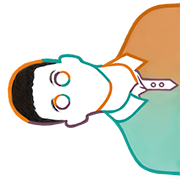
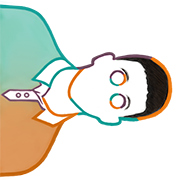
animatino img switch and flip

diff --git a/animation/animation.js b/animation/animation.js
@@ -3,13 +3,15 @@
 //---TEXT & IMAGES---//
 
 //homepage and about images
-var profile;
+var profile, real_profile;
 
 //-----PRELOAD-----// see p5js documentation for preload() function
 function preload() {
 
   //preload images
   profile = loadImage('profile.png');
+  real_profile = loadImage('real_profile.png');
+
 }
 
 //-----SETUP-----// see p5js documentation for setup() function
@@ -38,36 +40,70 @@ var home = {}; //home dictionary
 page_info["home"] = home; //asign page dict to page info dict
 home["image_slidein"] = image_slidein;
 home["image_static"] = image_static;
+home["image_slideout"] = image_slideout;
 home["particle_fadein"] = particle_fadein;
 home["particle_static"] = particle_static;
+home["particle_fadeout"] = particle_static;
+profile_img = 0; // state for wether to use fake (0) or real (1) profile pic
 
 function image_slidein() {
 
   //image slide-in
   tint(255, 255);
-  image(profile, (windowWidth - 180)+((1-sin(animation_timer))*180), (windowHeight/2) - 86, 180, 180);
+  if (profile_img == 0) {
+    image(profile, -180 + (sin(animation_timer)*180), (windowHeight/2) - 86, 180, 180);
+  } else {
+    image(real_profile, -180 + (sin(animation_timer)*180), (windowHeight/2) - 86, 180, 180);
+  }
+  
 
-  //eyes
-  noStroke();
-  fill(60);
-  ellipse((windowWidth)-120 + (mouseX/windowWidth)*5 + ((1-sin(animation_timer))*180), (windowHeight/2) - 9 + (mouseY/windowHeight)*3, 8, 8);
-  ellipse((windowWidth)-120 + (mouseX/windowWidth)*5 + ((1-sin(animation_timer))*180), (windowHeight/2) + 14 + (mouseY/windowHeight)*3, 8, 8);
+  //eyes (only if sketch)
+  if (profile_img == 0) {
+    noStroke();
+    fill(60);
+    ellipse(-65 + (mouseX/windowWidth)*5 + ((sin(animation_timer))*180), (windowHeight/2) - 9 + (mouseY/windowHeight)*3, 8, 8);
+    ellipse(-65 + (mouseX/windowWidth)*5 + ((sin(animation_timer))*180), (windowHeight/2) + 14 + (mouseY/windowHeight)*3, 8, 8);
 
-  // //white ellipse to cover up image right of center line
-  // noStroke();
-  // fill(255);
-  // rect(windowWidth, (windowHeight/2)-100, 200, 200);
+  }
 
 }
 function image_static() {
 
-  image(profile, (windowWidth) - 180, (windowHeight/2) - 86, 180, 180);
+  if (profile_img == 0) {
+    image(profile, 0, (windowHeight/2) - 86, 180, 180);
+  } else {
+    image(real_profile, 0, (windowHeight/2) - 86, 180, 180);
+  }
+  
+  //eyes (only if sketch)
+  if (profile_img == 0) {
+    noStroke();
+    fill(60);
+    ellipse(115 + (mouseX/windowWidth)*5, (windowHeight/2) - 9 + (mouseY/windowHeight)*3, 8, 8);
+    ellipse(115 + (mouseX/windowWidth)*5, (windowHeight/2) + 14 + (mouseY/windowHeight)*3, 8, 8);
+  }
+  
+}
+function image_slideout() {
 
-  //eyes
-  noStroke();
-  fill(60);
-  ellipse((windowWidth)-120 + (mouseX/windowWidth)*5, (windowHeight/2) - 9 + (mouseY/windowHeight)*3, 8, 8);
-  ellipse((windowWidth)-120 + (mouseX/windowWidth)*5, (windowHeight/2) + 14 + (mouseY/windowHeight)*3, 8, 8);
+  //image slide-out
+  tint(255, 255);
+  if (profile_img == 0) {
+    image(profile, -(sin(animation_timer)*180), (windowHeight/2) - 86, 180, 180);
+  } else {
+    image(real_profile, -(sin(animation_timer)*180), (windowHeight/2) - 86, 180, 180);
+  }
+  
+
+  //eyes (only if sketch)
+  if (profile_img == 0) {
+    noStroke();
+    fill(60);
+    ellipse(115 + (mouseX/windowWidth)*5 - (sin(animation_timer)*180), (windowHeight/2) - 9 + (mouseY/windowHeight)*3, 8, 8);
+    ellipse(115 + (mouseX/windowWidth)*5 - (sin(animation_timer)*180), (windowHeight/2) + 14 + (mouseY/windowHeight)*3, 8, 8);
+
+  }
+
 }
 
 function particle_fadein() {
@@ -75,13 +111,13 @@ function particle_fadein() {
   for (var i = 0; i < particleNumber; i++) {
     //updates
     perlinTimers[i] += (0.0001*i)+(0.001);
-    particleXpos[i] = particles[i].xposupdate() + 700*(noise(perlinTimers[i]) - 0.5); //multiplicative parameter changes particle spread
-    particleYpos[i] = particles[i].yposupdate() + 700*(noise(perlinTimers[i]+1) - 0.5); //multiplicative parameter changes particle spread
+    particleXpos[i] = particles[i].xposupdate() + (windowWidth)*(noise(perlinTimers[i]) - 0.5); //multiplicative parameter changes particle spread
+    particleYpos[i] = particles[i].yposupdate() + (windowHeight)*(noise(perlinTimers[i]+1) - 0.5); //multiplicative parameter changes particle spread
 
     //line to middle
     strokeWeight(1.4);
     stroke(140, 150*(sin(animation_timer)));
-    line(particleXpos[i], particleYpos[i], (windowWidth)-100, windowHeight/2);
+    line(particleXpos[i], particleYpos[i], 100, windowHeight/2);
     // // line connecting particles with other particles
     // if (i<particleNumber-2) {
     //   line(particleXpos[i], particleYpos[i], particleXpos[i+1], particleYpos[i+1]);
@@ -107,13 +143,13 @@ function particle_static() {
   for (var i = 0; i < particleNumber; i++) {
     //updates
     perlinTimers[i] += (0.0001*i)+(0.001);
-    particleXpos[i] = particles[i].xposupdate() + 700*(noise(perlinTimers[i]) - 0.5); //multiplicative parameter changes particle spread
-    particleYpos[i] = particles[i].yposupdate() + 700*(noise(perlinTimers[i]+1) - 0.5); //multiplicative parameter changes particle spread
+    particleXpos[i] = particles[i].xposupdate() + (windowWidth)*(noise(perlinTimers[i]) - 0.5); //multiplicative parameter changes particle spread
+    particleYpos[i] = particles[i].yposupdate() + (windowHeight)*(noise(perlinTimers[i]+1) - 0.5); //multiplicative parameter changes particle spread
 
     //line to middle
     strokeWeight(1.4);
     stroke(140, 150);
-    line(particleXpos[i], particleYpos[i], (windowWidth)-100, windowHeight/2);
+    line(particleXpos[i], particleYpos[i], 100, windowHeight/2);
     // // line connecting particles with other particles
     // if (i<particleNumber-2) {
     //   line(particleXpos[i], particleYpos[i], particleXpos[i+1], particleYpos[i+1]);
@@ -134,6 +170,39 @@ function particle_static() {
     ellipse(particleXpos[i], particleYpos[i], 17, 17);
   }
 }
+function particle_fadeout() {
+
+  for (var i = 0; i < particleNumber; i++) {
+    //updates
+    perlinTimers[i] += (0.0001*i)+(0.001);
+    particleXpos[i] = particles[i].xposupdate() + (windowWidth)*(noise(perlinTimers[i]) - 0.5); //multiplicative parameter changes particle spread
+    particleYpos[i] = particles[i].yposupdate() + (windowHeight)*(noise(perlinTimers[i]+1) - 0.5); //multiplicative parameter changes particle spread
+
+    //line to middle
+    strokeWeight(1.4);
+    stroke(140, 150*(1-sin(animation_timer)));
+    line(particleXpos[i], particleYpos[i], 100, windowHeight/2);
+    // // line connecting particles with other particles
+    // if (i<particleNumber-2) {
+    //   line(particleXpos[i], particleYpos[i], particleXpos[i+1], particleYpos[i+1]);
+    // }
+
+    //varying fill colors based on particle index
+    if (i%3==0) {
+      fill(179, 157, 219);
+    } else if (i%2==0) {
+      fill(255, 151, 66);
+    } else {
+      fill(128, 203, 196);
+    }
+    
+    //particles
+    strokeWeight(2);
+    stroke(60, 255*(1-sin(animation_timer)));
+    ellipse(particleXpos[i], particleYpos[i], 17-17*(sin(animation_timer)), 17-17*sin(animation_timer));
+  }
+}
+
 
 //---general functions---//
 
@@ -149,17 +218,17 @@ function state_agnostic() {
   textSize(12);
   // text('alpha version', 5, 15)
 
-  //---framerate---//
-  if (frameCount%30==0) {
-    fps = frameRate();
-  }
+  // //---framerate---//
+  // if (frameCount%30==0) {
+  //   fps = frameRate();
+  // }
   //text("FPS: " + fps.toFixed(2), 5, 15);
 }
 function Particles() { //particle class
 
   //initial spread of particles
-  this.x = random((windowWidth)-525, ((windowWidth)+325));
-  this.y = random((windowHeight/2)-525, (windowHeight/2)+525);
+  this.x = random(0, windowWidth);
+  this.y = random(0, windowHeight);
   this.easing = 0.01;
 
   this.xposupdate = function() {
@@ -177,28 +246,14 @@ function Particles() { //particle class
   }
 }
 
-function line_fadein() {
-  
-  stroke(170, sin(animation_timer)*255);
-  strokeWeight(sin(animation_timer)*2);
-  line(windowWidth-1, windowHeight/2 - 106, windowWidth-1, windowHeight/2 + 111);
-
-}
 function line_static() {
 
   stroke(170);
-  strokeWeight(2);
-  line(windowWidth-1, windowHeight/2 - 106, windowWidth-1, windowHeight/2 + 111);
+  strokeWeight(1);
+  line(0, windowHeight/2 - 106, 0, windowHeight/2 + 111);
 
 }
-// function line_fadeout() {
-  
-//   stroke(70);
-//   strokeWeight(2);
-//   line(windowWidth/2, windowHeight/2 - 106 - (3*windowHeight/10 - 133)*sin(animation_timer), windowWidth/2, windowHeight/2 + 111 - (3*windowHeight/10 + 84)*(sin(animation_timer)));
-//   //line(windowWidth/2, windowHeight/2 - 108 + 106*sin(animation_timer), windowWidth/2, windowHeight/2 + 111 - 113*sin(animation_timer));
 
-// }
 
 //---------------------DRAW----------------------//
 var STATE = 0; //highest level state, 4 states indicated in draw()
@@ -229,7 +284,7 @@ function draw() {
       current_page = "home";
       if (animation_timer <= HALF_PI) {
         image_slidein();
-        line_fadein();
+        line_static();
         animation_timer += (HALF_PI/60);
       } else {
         animation_substate = 2;
@@ -253,6 +308,8 @@ function draw() {
 
   }
 
+  line_static();
+
   //STATE 1: HOMEPAGE STATIC
   if (STATE == 1) {
 
@@ -260,5 +317,40 @@ function draw() {
     image_static();
     line_static();
 
+  }
+
+  if (STATE == 2) {
+
+    //substate 0: particle fade-out
+    if (animation_substate == 0) {
+      if (animation_timer <= HALF_PI) {
+        particle_fadeout();
+        image_static();
+        noStroke();
+        animation_timer += (HALF_PI/60);
+      } else {
+        animation_substate = 1;
+        animation_timer = 0;
+      }
+    }
+
+    //substate 1: image slideout
+    if (animation_substate == 1) {
+      if (animation_timer <= HALF_PI) {
+        image_slideout();
+        animation_timer += (HALF_PI/60);
+      } else {
+        animation_substate = 1;
+        STATE = 0;
+        profile_img = (profile_img + 1)%2;
+        animation_timer = 0;
+      }
+    }
+  }
+}
+
+function mousePressed() {
+  if (STATE == 1) { //only if static
+    STATE = 2;
   }
 }

diff --git a/index.html b/index.html
@@ -28,7 +28,7 @@
 							<!-- Home -->
 							<section id="banner" style="margin-top: 1.45em">
 
-								<div class="content">
+								<div class="content", style="margin-right: 1em;">
 									<h2>Home</i></h2>
 									<p><strong>Hi!</strong><br>
 									I'm working on some cool stuff in music, computer science, mathematics, and engineering. You can find some of them on this website!</p>
@@ -53,7 +53,7 @@
 									<img src="images/portrait.jpg" alt="Christos Plachouras" />
 								</span> -->
 
-								<span class="image left"><img src="images/portrait.jpg"></span>
+								<!-- <span class="image left"><img src="images/portrait.jpg"></span> -->
 
 								<div class="content">
 									<h2>About</h2>
@@ -110,7 +110,7 @@
 									<p id="boxed-text"><strong>Utilizing Hierarchical Structure for Audio-Based Music Similarity</strong><br>
 									Christos Plachouras<br>
 									Late-Breaking Demo, International Society of Music Information Retrieval (ISMIR) Conference 2021 (virtual) <br>
-									Paper, Video, Poster, <a href="" target="_blank">Code</a></p>	
+									Paper, Video, Poster, <a href="https://github.com/chrispla/align_and_compare" target="_blank">Code</a></p>	
 								</div>
 								<div class="boxed odd">
 									<span class="image entry"><img src="images/timbre.png"></span>

diff --git a/assets/css/main.css b/assets/css/main.css
@@ -112,11 +112,11 @@ a {
   -ms-transition: color 0.2s ease-in-out, border-bottom-color 0.2s ease-in-out;
   transition: color 0.2s ease-in-out, border-bottom-color 0.2s ease-in-out;
   border-bottom: dotted 1px;
-  color: #f79d4e;
+  color: #e27e3b;
   text-decoration: none; }
   a:hover {
-    border-bottom-color: #f79d4e;
-    color: #f79d4e !important; }
+    border-bottom-color: #e27e3b;
+    color: #e27e3b !important; }
     a:hover strong {
       color: inherit; }
 
